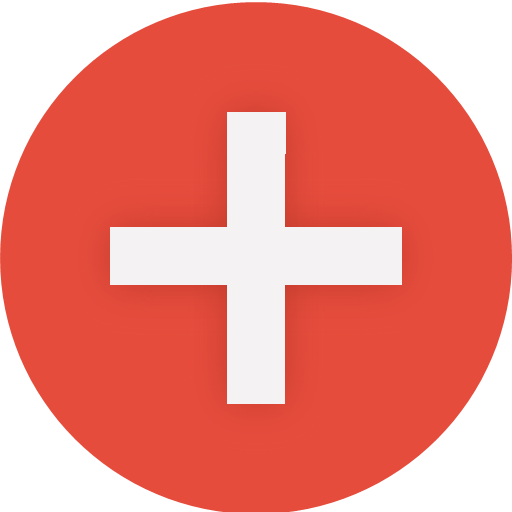
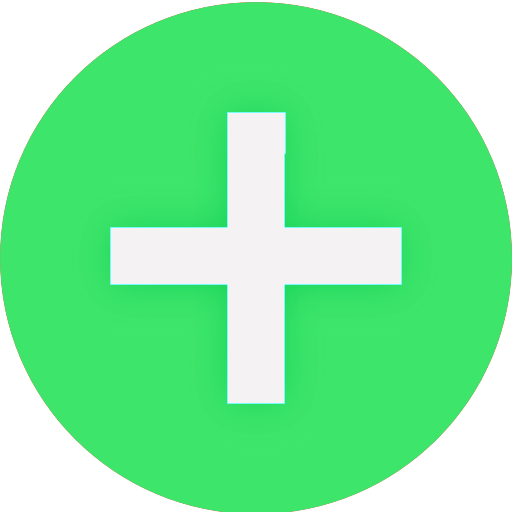
un peu de css

diff --git a/css/main.css b/css/main.css
@@ -1,4 +1,8 @@
 
+*{
+  transition: all .35s ease-Out;
+}
+
 @font-face {
     font-family: CaviarDreams_Bold;
     src: url("CaviarDreams_Bold.ttf") format("truetype");
@@ -26,12 +30,19 @@ a{
     text-decoration: none;
 }
 
+a:hover{
+  color: #5fdd63;
+}
+
 p{
     margin: 0;
     padding: 0;
     text-align: justify;
 }
 
+#nav{
+  background-color: #f5f5f5;
+}
 
 #nav ul{
   display: flex;
@@ -145,6 +156,11 @@ input[type=reset]:hover {
   border: none;
   border-radius: 4px;
   cursor: pointer;
+  transition: all .35s ease-Out;
+}
+
+#addButton:hover{
+  filter:brightness(150%);
 }
 
 #channel{
@@ -156,7 +172,7 @@ input[type=reset]:hover {
   align-items: center;
   border-radius: 40px;
   justify-content: space-between;
-  transition: all .35s ease-Out;
+  transition: all 0.35s ease-Out;
 }
 
 #channel:hover{
